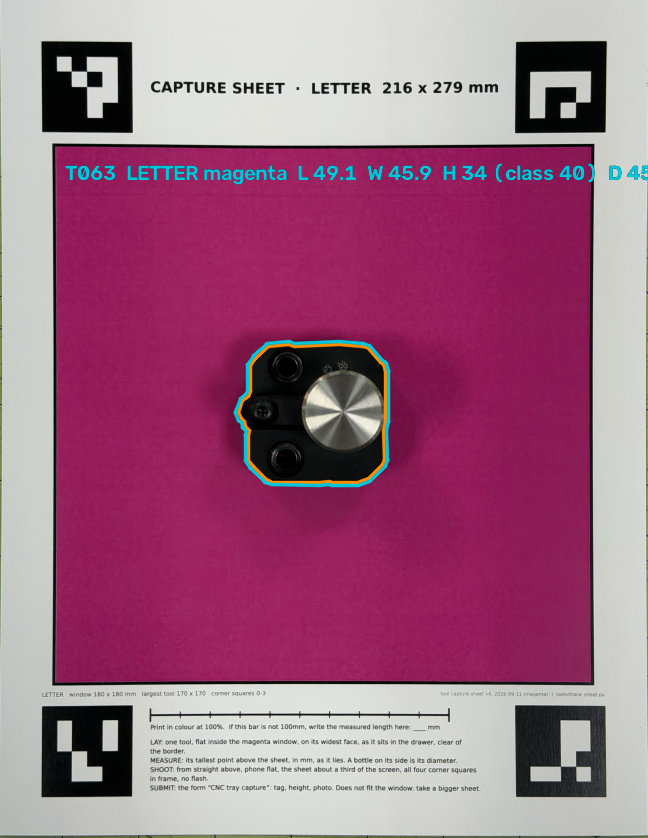
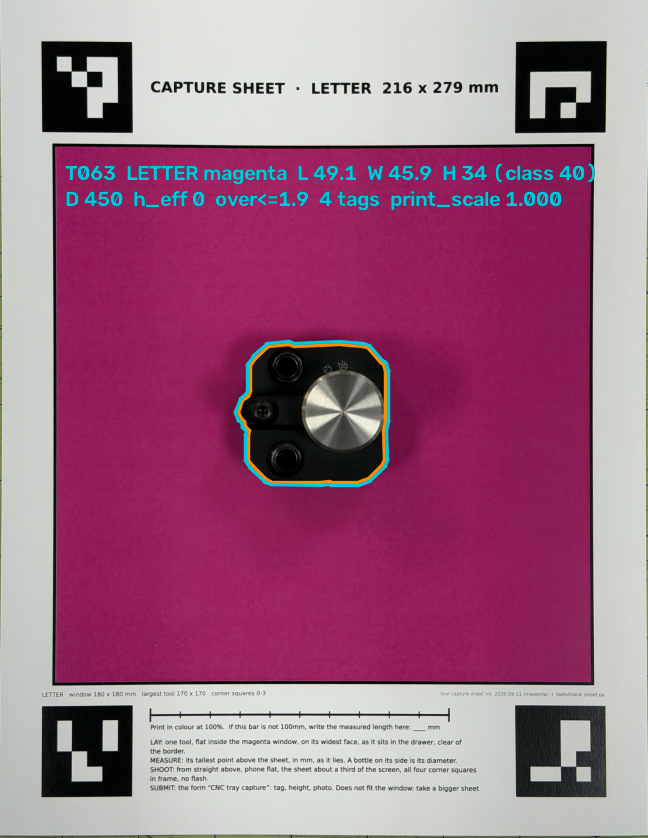
Wrap the capture preview's caption instead of running it off the edge
The caption carries D, h_eff and the oversize bound at the end of a long
line, and the preview is the one place a capture is meant to be checked
before it is trusted. Everything from D onward was past the right edge and
unreadable; the D for T063 had to be read out of the Result object instead.

Wrapped to the image width. Fields are split on the caption's two-space
separators first and packed greedily, so "L 49.1" cannot break across two
lines; a group still too wide on its own (a warning, which is prose) falls
back to single spaces; a single token wider than the image is left whole
rather than dropped, because clipping one word beats losing the line.

The line leading moves from 10mm of sheet to 26 preview px. It was always
image-space text, so measuring its spacing in paper millimetres meant the
lines drifted apart on a TABLOID sheet for no reason.

T063 re-rendered: the second line now reads D 450, h_eff 0, over<=1.9,
4 tags, print_scale 1.000. That oversize bound is worth having been able
to read -- 1.9 against an OVERSIZE_MAX of 2.0, so that shot was one notch
from warning. It does not matter for a slab whose widest edge is on the
paper; it will matter for the Vactra bottle.

test_capture.py: ALL PASSED.

Claude-Session: https://claude.ai/code/session_012oQMagBotmFt4RSyGz9b1h

Changed region(s): [[0.0926, 0.2172, 0.8642, 0.2482], [0.9259, 0.1862, 1.0, 0.2172]]

diff --git a/stations/cnc_shapeoko/tools/capture_ingest.py b/stations/cnc_shapeoko/tools/capture_ingest.py
@@ -469,6 +469,12 @@ SILHOUETTE_COLOUR = (0, 140, 255)  # BGR: orange, same as the trace
 PREVIEW_PX_PER_MM = 3.0
 TRACE_COLOUR = (0, 140, 255)      # BGR: orange
 POCKET_COLOUR = (220, 200, 0)     # BGR: cyan
+PREVIEW_FONT_SCALE = 0.7
+PREVIEW_LINE_PX = 26
+"""Caption leading, preview px. Was 10mm of sheet, which is the wrong
+unit: the caption is drawn in image space and does not scale with the
+paper, so on TABLOID the lines drifted apart."""
+PREVIEW_TEXT_MARGIN_PX = 6
 
 
 # ================================================================ result
@@ -744,9 +750,42 @@ def _write_dxf(pts_mm: np.ndarray, path: Path) -> None:
     ex.write(str(path))
 
 
+def _text_width(line: str) -> int:
+    """Rendered width of one caption line, in preview pixels."""
+    return cv2.getTextSize(line, cv2.FONT_HERSHEY_SIMPLEX, PREVIEW_FONT_SCALE, 2)[0][0]
+
+
+def _wrap_caption(line: str, avail_px: int) -> list[str]:
+    """Break one caption line so every part fits ``avail_px``.
+
+    The caption separates its fields with two spaces, so it is split on those
+    first and the fields packed greedily: ``L 49.1`` never breaks across two
+    lines. A group that is still too wide on its own (a long warning, which is
+    ordinary prose with single spaces) is then broken on single spaces. A word
+    wider than the image is left alone rather than dropped -- clipping one long
+    token is better than losing the line, which is the bug this replaces.
+    """
+    out: list[str] = []
+    for group in [g for g in line.split("  ") if g]:
+        if out and _text_width(out[-1] + "  " + group) <= avail_px:
+            out[-1] += "  " + group
+            continue
+        if _text_width(group) <= avail_px:
+            out.append(group)
+            continue
+        for word in group.split(" "):
+            if out and _text_width(out[-1] + " " + word) <= avail_px:
+                out[-1] += " " + word
+            else:
+                out.append(word)
+    return out or [line]
+
+
 def _write_preview(rect: np.ndarray, trace_mm: np.ndarray, pocket_sheet_mm: np.ndarray, text: str | list[str], path: Path, spec: sheet.SheetSpec) -> None:
     """``text`` is one line or several, drawn from the window's top-left
-    corner downward."""
+    corner downward. Each is wrapped to the image width: the caption carries
+    D, h_eff and the oversize bound at the end of a long line, and before
+    2026-09-17 they ran off the right edge and could not be read at all."""
     s = PREVIEW_PX_PER_MM / PX_PER_MM
     img = cv2.resize(rect, None, fx=s, fy=s, interpolation=cv2.INTER_AREA)
     if img.ndim == 2:
@@ -754,10 +793,15 @@ def _write_preview(rect: np.ndarray, trace_mm: np.ndarray, pocket_sheet_mm: np.n
     cv2.polylines(img, [np.round(trace_mm * PREVIEW_PX_PER_MM).astype(np.int32)], True, TRACE_COLOUR, 2, cv2.LINE_AA)
     cv2.polylines(img, [np.round(pocket_sheet_mm * PREVIEW_PX_PER_MM).astype(np.int32)], True, POCKET_COLOUR, 2, cv2.LINE_AA)
     x0, y0, _x1, _y1 = spec.field_rect()
-    for i, line in enumerate([text] if isinstance(text, str) else text):
-        org = (int((x0 + 4) * PREVIEW_PX_PER_MM), int((y0 + 12 + 10 * i) * PREVIEW_PX_PER_MM))
-        cv2.putText(img, line, org, cv2.FONT_HERSHEY_SIMPLEX, 0.7, (0, 0, 0), 4, cv2.LINE_AA)
-        cv2.putText(img, line, org, cv2.FONT_HERSHEY_SIMPLEX, 0.7, POCKET_COLOUR, 2, cv2.LINE_AA)
+    left_px = int((x0 + 4) * PREVIEW_PX_PER_MM)
+    avail_px = max(1, img.shape[1] - left_px - PREVIEW_TEXT_MARGIN_PX)
+    lines: list[str] = []
+    for line in [text] if isinstance(text, str) else text:
+        lines.extend(_wrap_caption(line, avail_px))
+    for i, line in enumerate(lines):
+        org = (left_px, int((y0 + 12) * PREVIEW_PX_PER_MM) + i * PREVIEW_LINE_PX)
+        cv2.putText(img, line, org, cv2.FONT_HERSHEY_SIMPLEX, PREVIEW_FONT_SCALE, (0, 0, 0), 4, cv2.LINE_AA)
+        cv2.putText(img, line, org, cv2.FONT_HERSHEY_SIMPLEX, PREVIEW_FONT_SCALE, POCKET_COLOUR, 2, cv2.LINE_AA)
     path.parent.mkdir(parents=True, exist_ok=True)
     cv2.imwrite(str(path), img)
 
